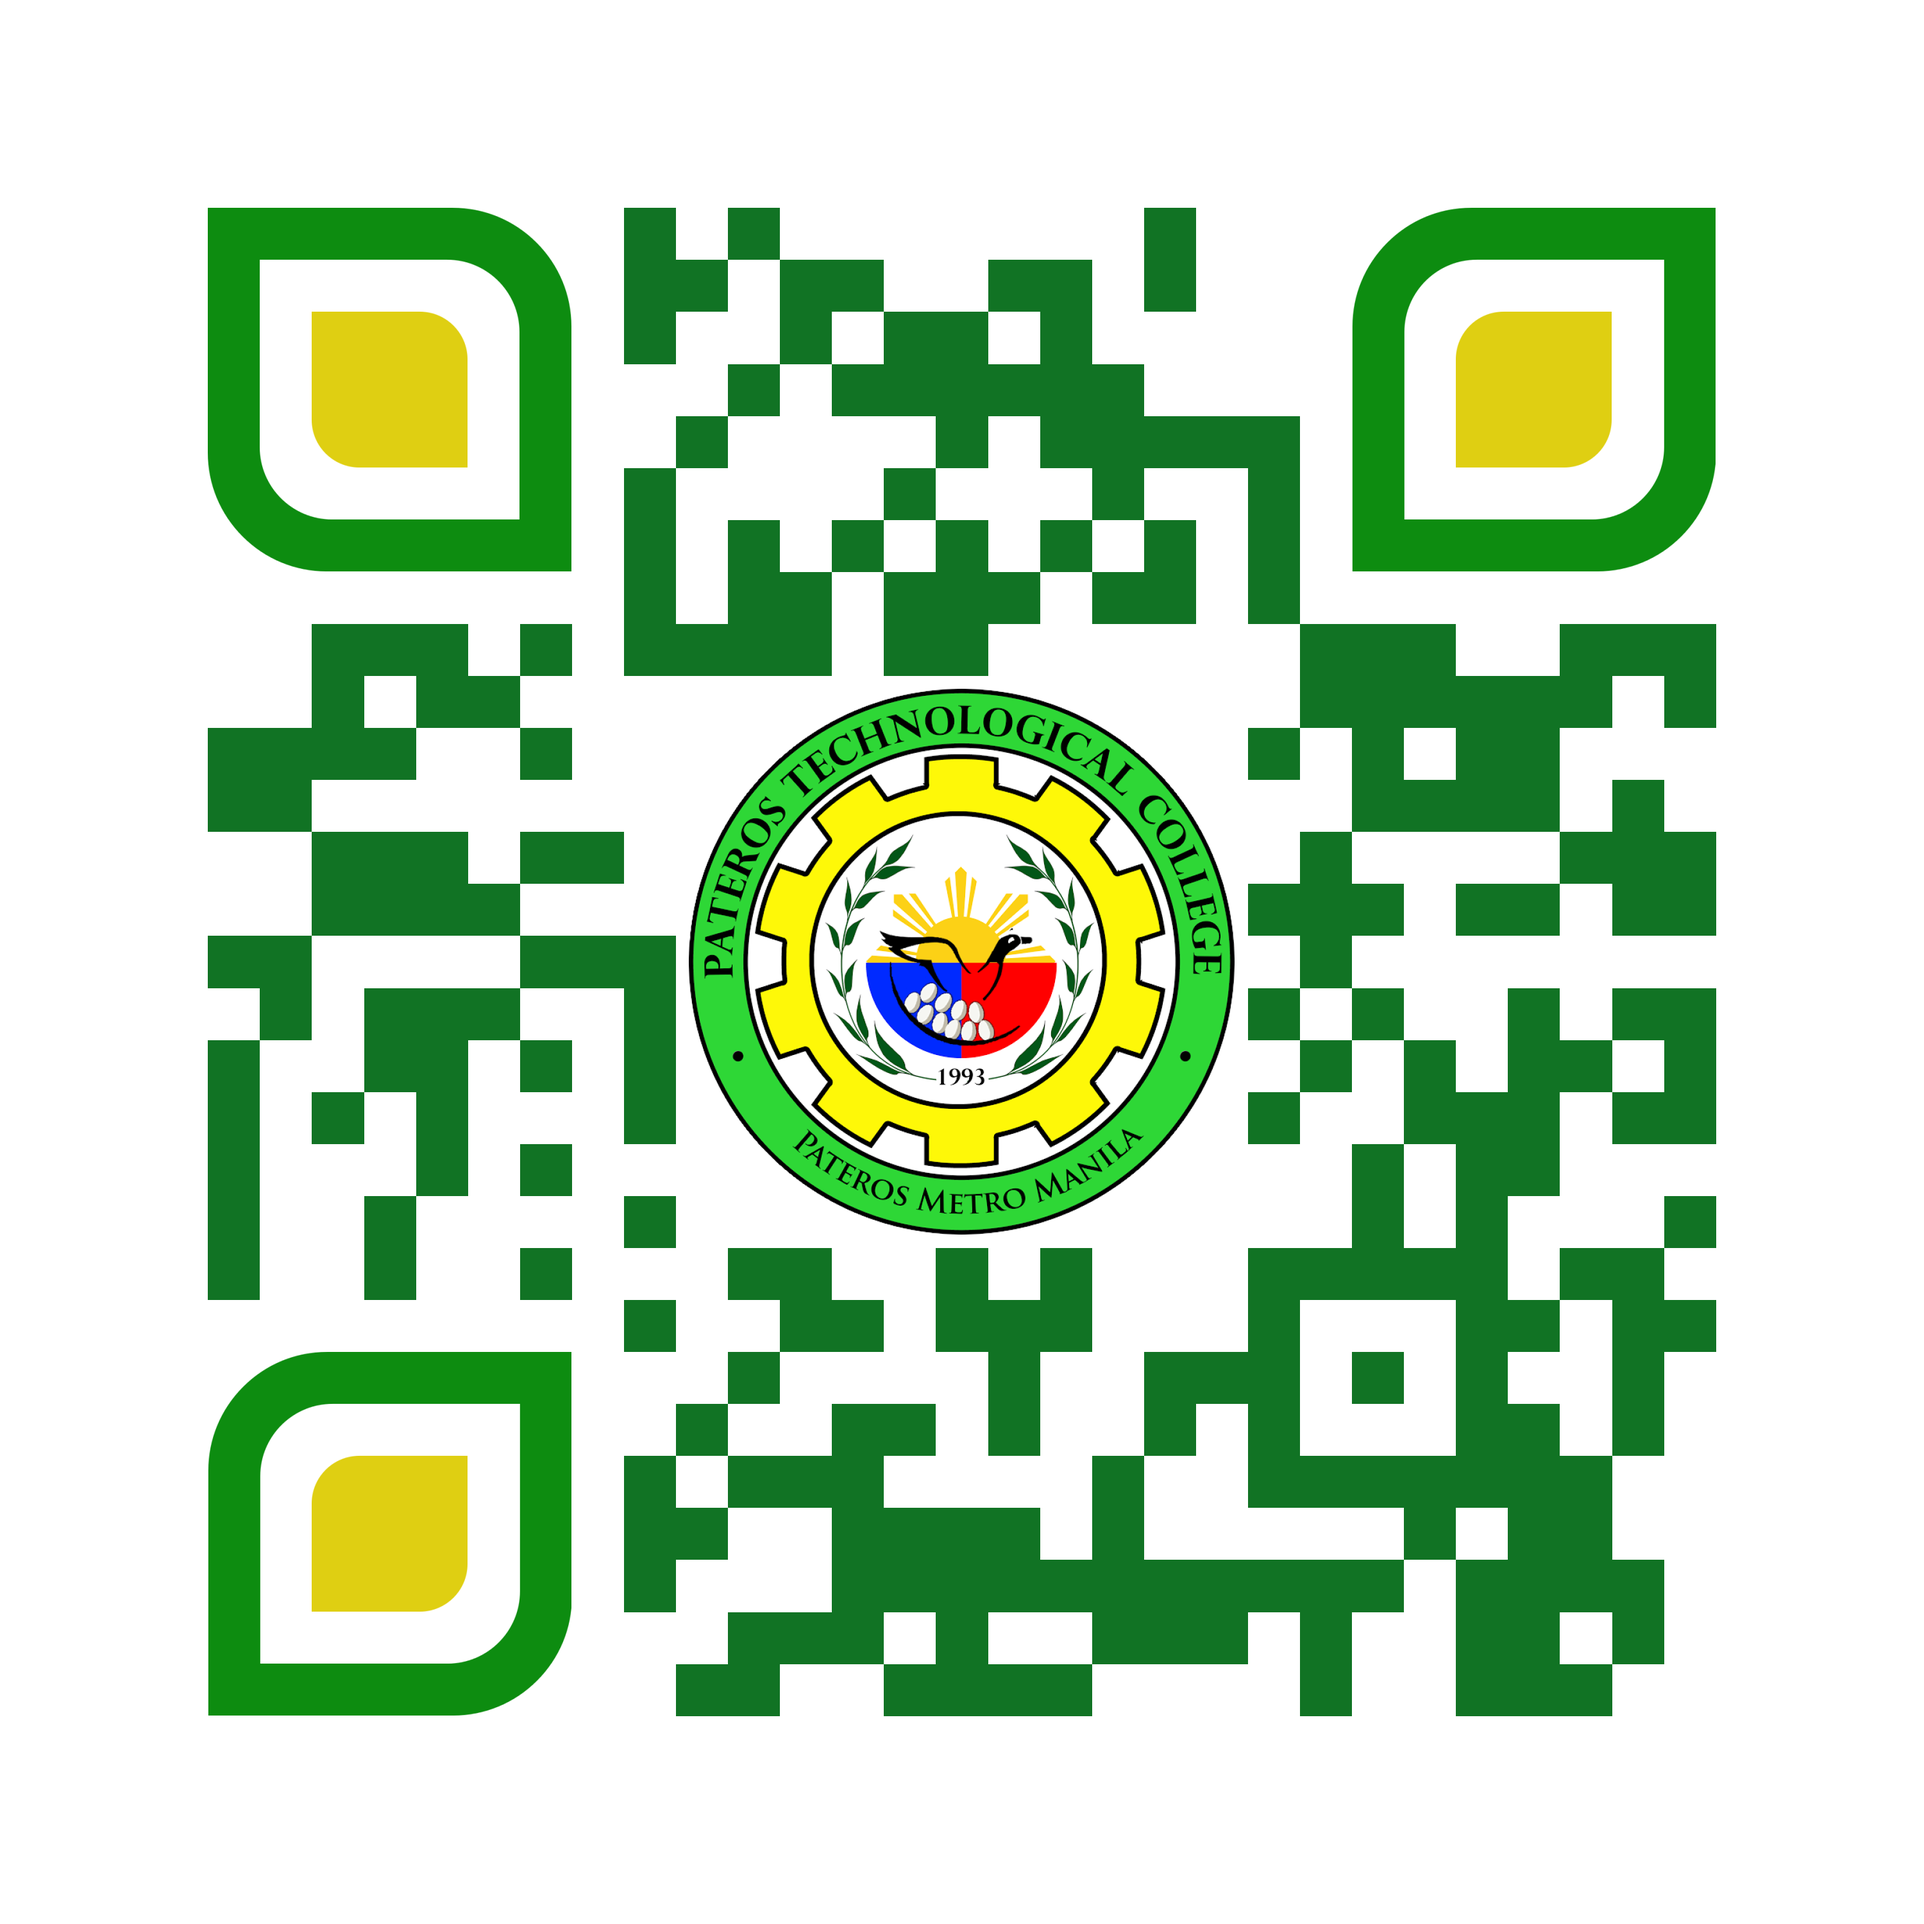
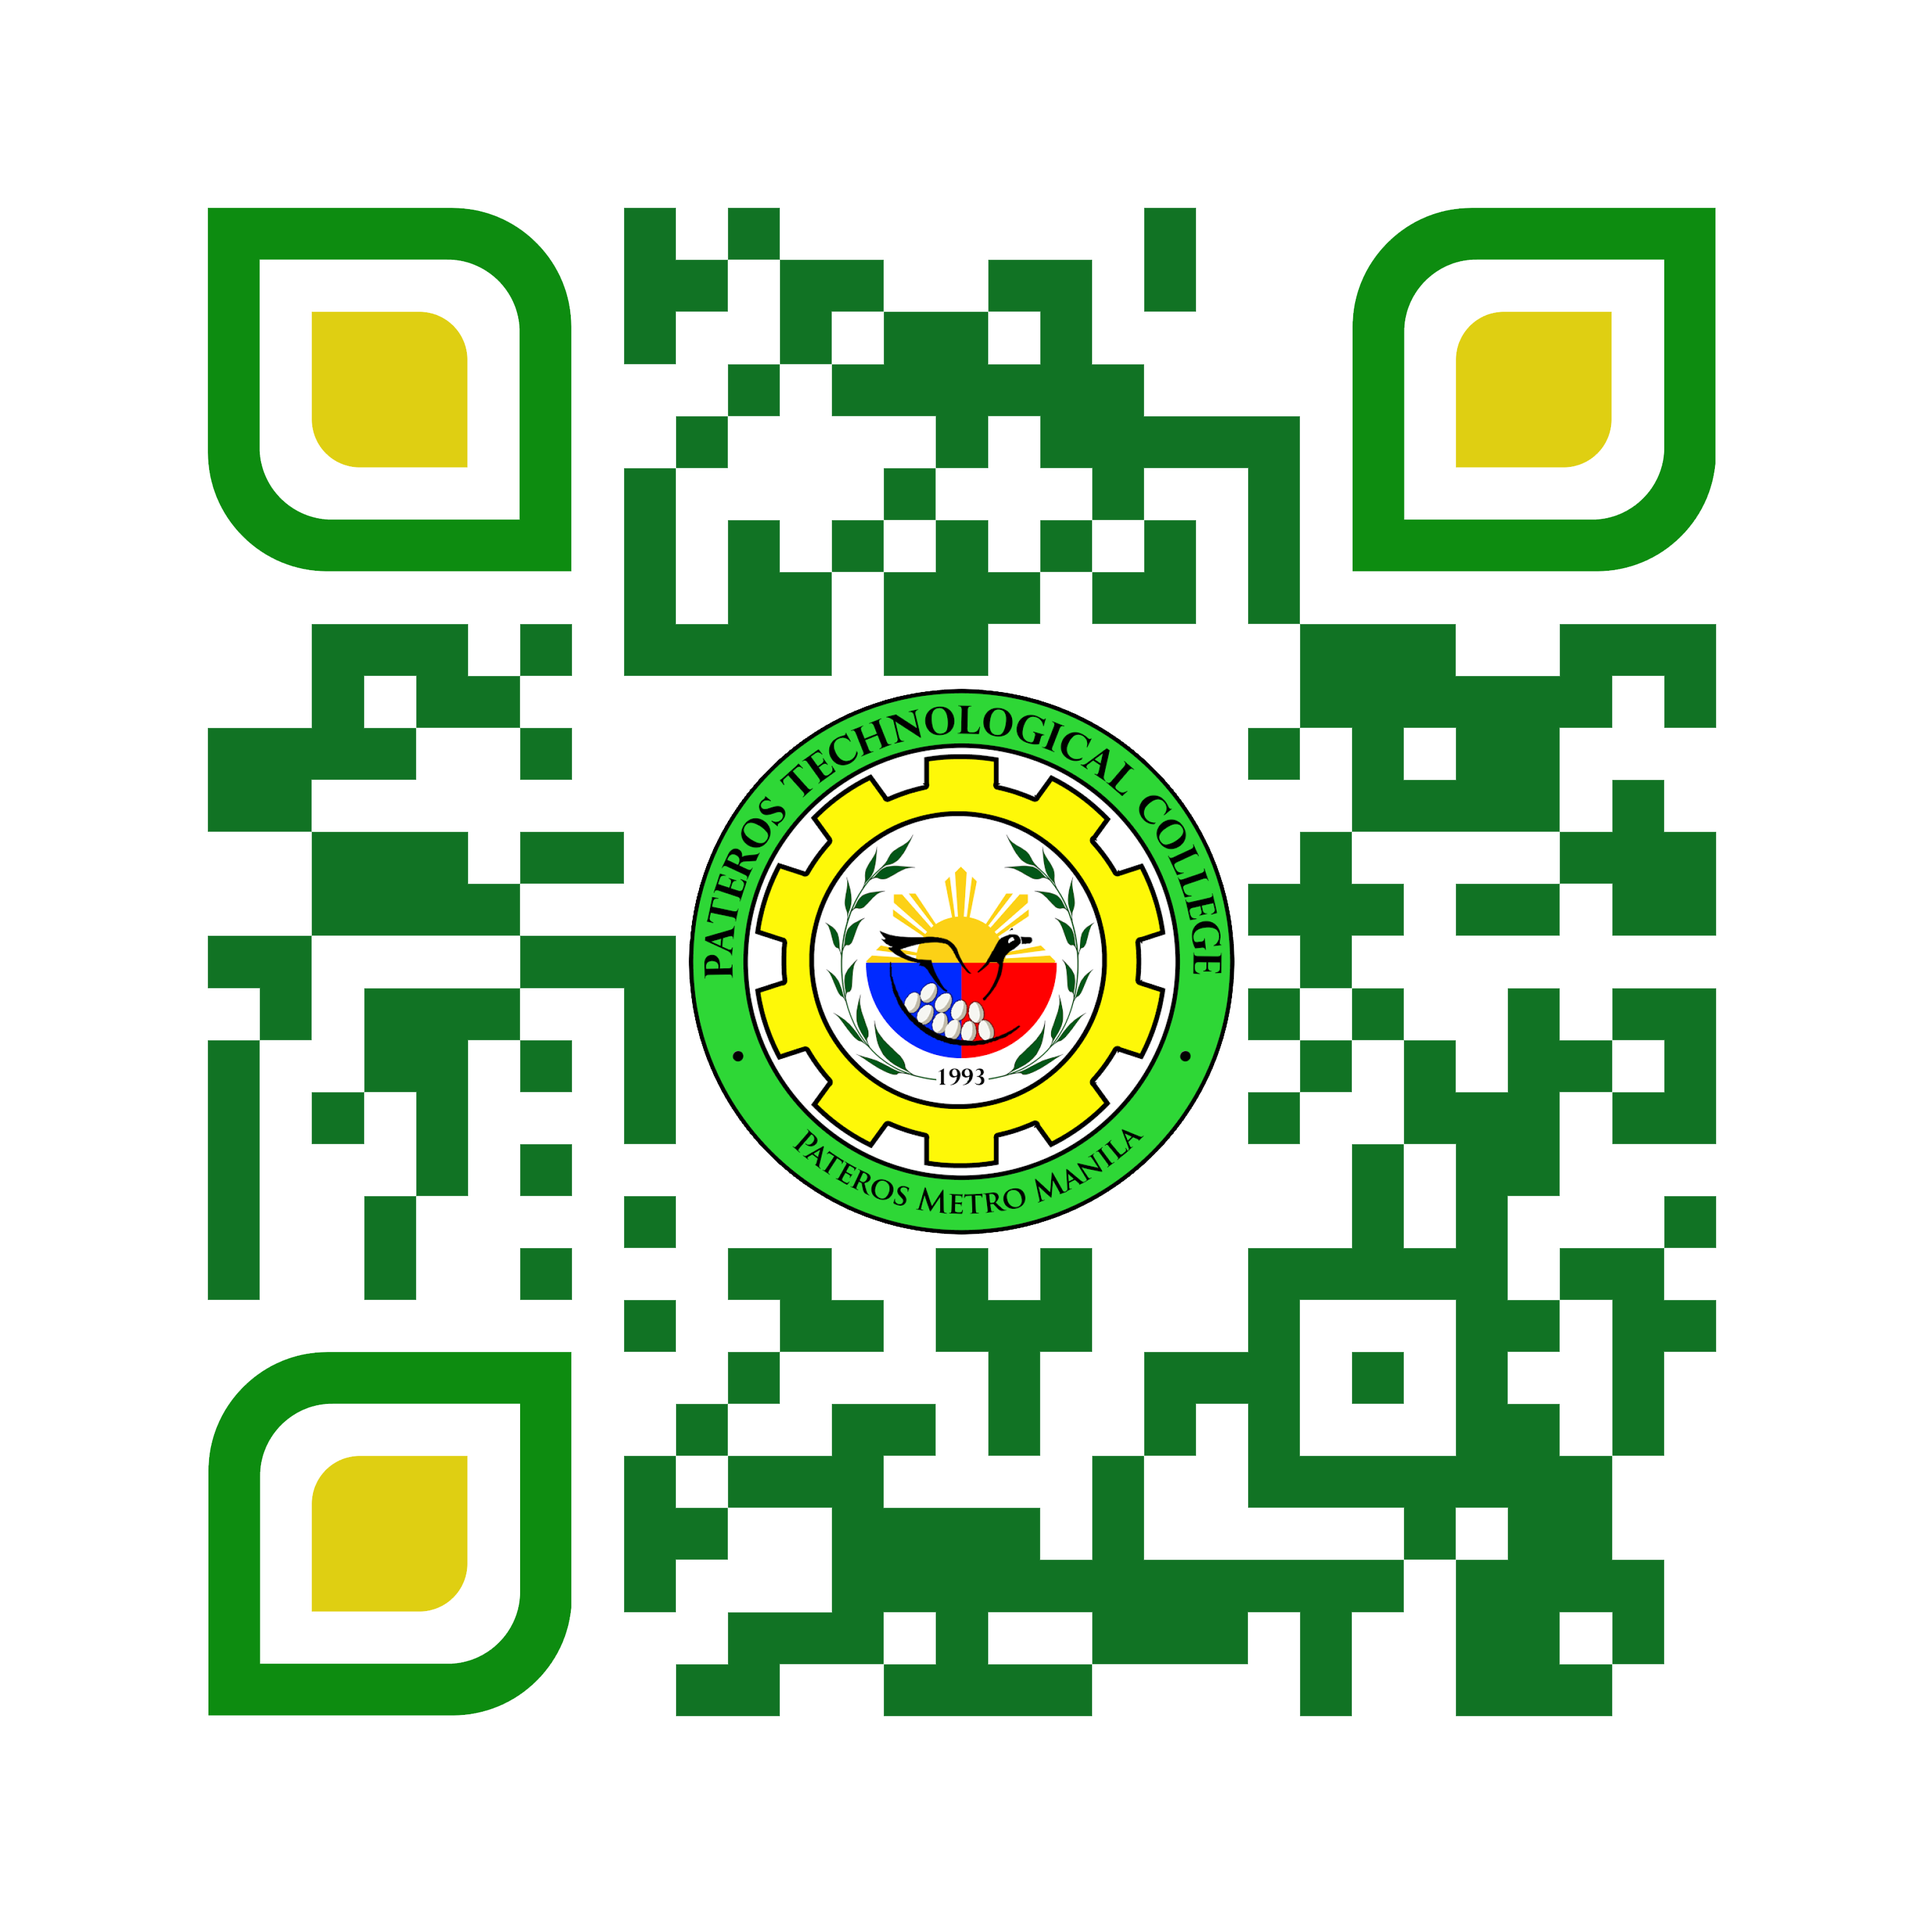
cmaroon-changelog08022018

diff --git a/resources/assets/sass/twiistrz/_main.scss b/resources/assets/sass/twiistrz/_main.scss
@@ -406,13 +406,20 @@
         }
 
     }
+
     &-qrptc {
-        padding: 100px 0 280px;
-        background-image: $image-qrptc;
-        background-repeat: no-repeat;
-        background-position: center center;
-        background-size: cover;
-        color: set-text-color($hsla-dark-50);
+        width: 35px;
+        height: 35px;
+        
+            &--image {
+                background-image: $image-qrptc;
+                background-repeat: no-repeat;
+                background-position: center center;
+                background-size: cover;
+                border-radius: 0;
+                height: 83px;
+                width: 100px;
+            }
     
         }
 }

diff --git a/public/css/app.css b/public/css/app.css
@@ -13589,12 +13589,18 @@ a:hover {
 }
 
 .ptc-qrptc {
-  padding: 100px 0 280px;
-  background-image: url(/images/qr_ptc.png?b9d57381a32dfd036391e8cf0a4438ef);
+  width: 35px;
+  height: 35px;
+}
+
+.ptc-qrptc--image {
+  background-image: url(/images/qr_ptc.png?92c9e25958686bd30694df3ffc44d0b0);
   background-repeat: no-repeat;
   background-position: center center;
   background-size: cover;
-  color: #fff;
+  border-radius: 0;
+  height: 83px;
+  width: 100px;
 }
 
 .text-primary {

diff --git a/resources/views/pages/home.blade.php b/resources/views/pages/home.blade.php
@@ -198,7 +198,7 @@
                             <li><a href="#">Terms of Use</a></li>
                         </ul>
 
-                        <img class="ptc-qrptc ptc-qrptc" alt="PTC-QRCODE">
+                        <a href="/images/qr_ptc.png?299857bd87f9318948665bafa8a65975" target="_blank"><div class="ptc-qrptc ptc-qrptc--image"></div></a>
                     </div>
 
                     <div class="one_quarter">
